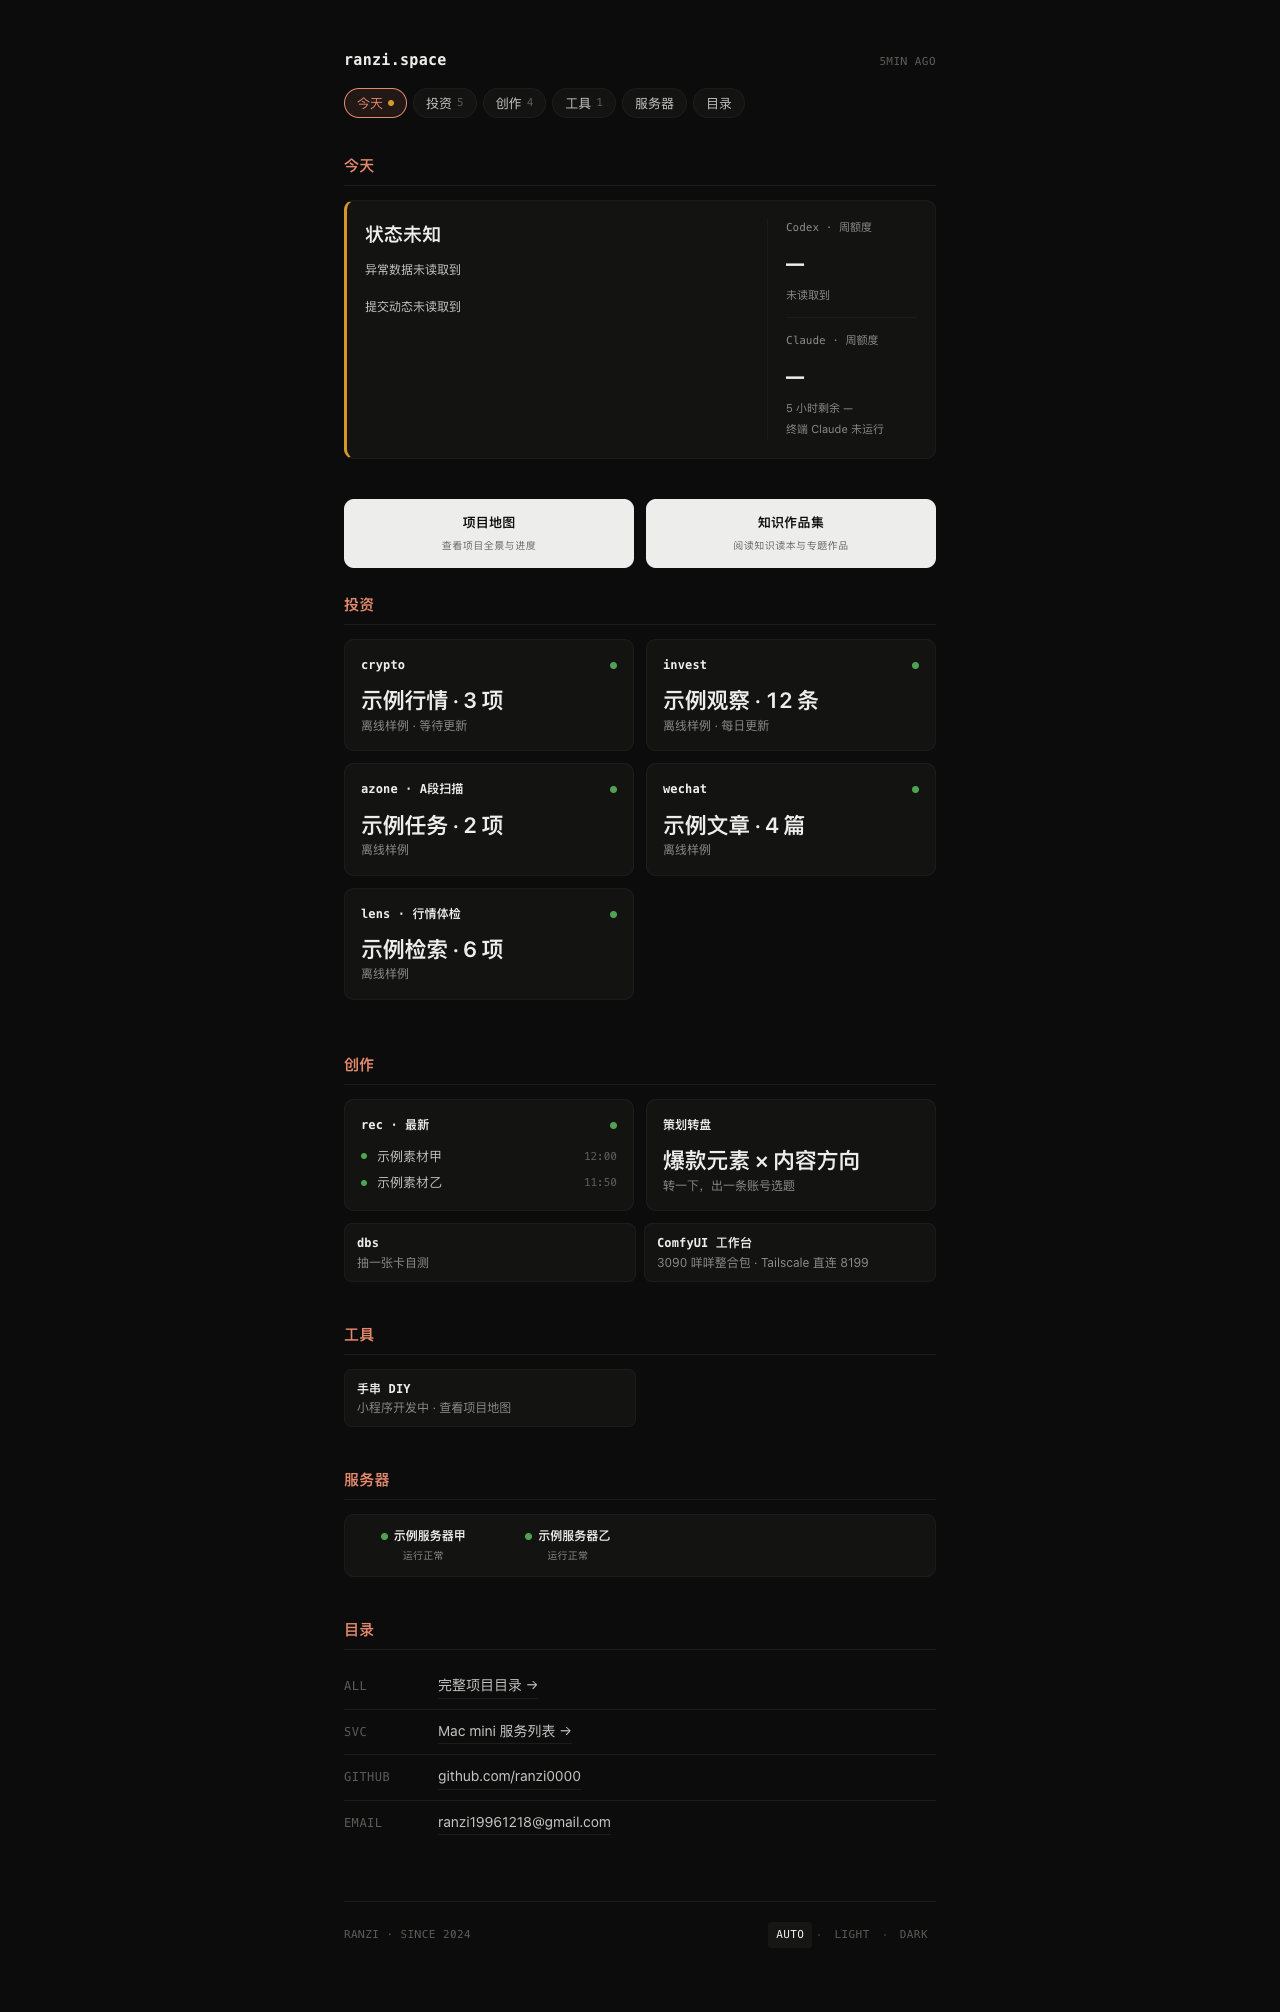
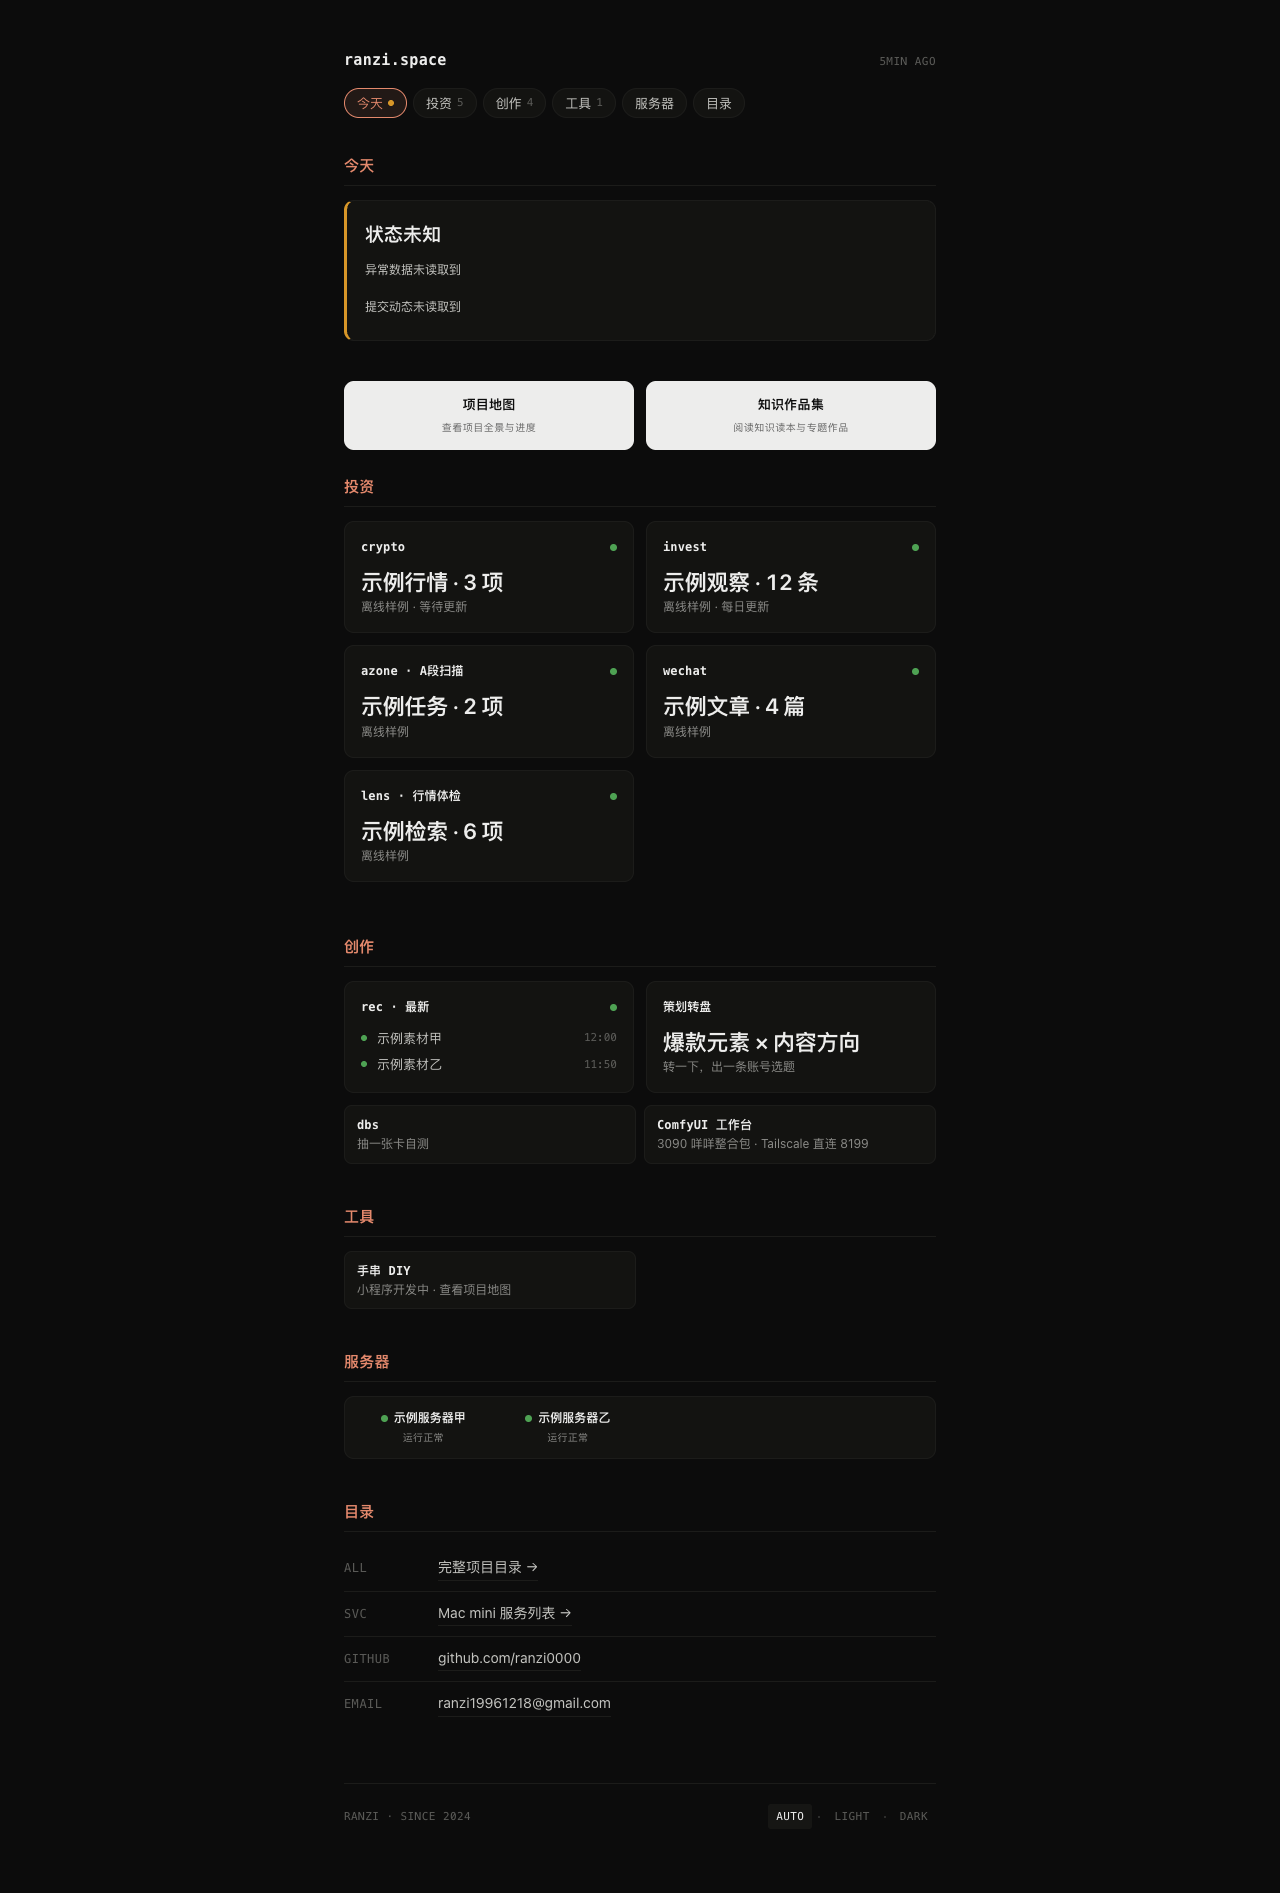
额度区精简：撤下已到期的 Codex 行；Claude 无数据时整块隐藏，今天面板改单栏

diff --git a/index.html b/index.html
@@ -115,6 +115,8 @@ body.stale .server-strip { opacity: 0.55; }
 }
 .today-panel[data-state="alerts"] { border-left-color: var(--status-bad); }
 .today-panel[data-state="unknown"] { border-left-color: var(--status-warn); }
+.today-panel.no-quota { grid-template-columns: minmax(0, 1fr); }
+.quota-block[hidden] { display: none; }
 .today-copy { min-width: 0; }
 .today-status { margin: 0; font-size: 19px; font-weight: 600; color: var(--fg); }
 .today-alerts, .today-latest { list-style: none; padding: 0; margin: 0; }
@@ -566,13 +568,8 @@ footer .meta { text-transform: uppercase; }
         <p class="today-activity" id="today-activity">提交动态读取中</p>
         <ul class="today-latest" id="today-latest"></ul>
       </div>
-      <aside class="quota-block" aria-label="额度">
-        <div class="quota-row">
-          <p class="quota-label">Codex · 周额度</p>
-          <p class="quota-value" id="quota-value">—</p>
-          <p class="quota-state" id="quota-state">读取中</p>
-          <p class="quota-reset" id="quota-reset"></p>
-        </div>
+      <!-- 只剩 Claude 一行（Codex 会员 2026-10-21 到期后撤下）；没有数据时整块隐藏，面板变单栏 -->
+      <aside class="quota-block" id="quota-block" aria-label="额度" hidden>
         <div class="quota-row">
           <p class="quota-label">Claude · 周额度</p>
           <p class="quota-value" id="quota-claude-value">—</p>

diff --git a/assets/home/render.js b/assets/home/render.js
@@ -282,13 +282,12 @@ function renderToday(data) {
     if (item.time) li.querySelector('time').dateTime = item.time;
     latest.appendChild(li);
   });
-  var quota = quotaView(data?.quota);
-  document.getElementById('quota-value').textContent = quota.remaining === null ? '—' : quota.remaining + '%';
-  document.getElementById('quota-state').textContent = quota.label;
-  document.getElementById('quota-reset').textContent = quota.reset;
   var claude = quotaView(data?.quota_claude, Date.now(), [10080], 21600);
   var short = quotaView(data?.quota_claude, Date.now(), [300], 21600);
   var available = claude.remaining !== null;
+  // 额度只有终端 Claude 运行时才会写入；没有数据时整块隐藏，不常驻一行「未运行」
+  document.getElementById('quota-block').hidden = !available;
+  panel.classList.toggle('no-quota', !available);
   var sampled = new Date(data?.quota_claude?.sampled_at * 1000);
   var sampleTime = String(sampled.getHours()).padStart(2, '0') + ':' + String(sampled.getMinutes()).padStart(2, '0');
   document.getElementById('quota-claude-value').textContent = available ? claude.remaining + '%' : '—';

diff --git a/scripts/verify_p3.py b/scripts/verify_p3.py
@@ -47,10 +47,6 @@ def main():
                             assert page.locator('.group-section:visible .eyebrow').all_text_contents() == ['投资', '创作', '工具']
                             assert page.locator('#quick-tags a:visible').all_text_contents() == ['今天', '投资5', '创作4', '工具1', '服务器', '目录']
                             assert page.locator('#today-latest li').count() == (0 if fixture == 'error' else 2)
-                            assert page.locator('#quota-value').inner_text() == ('—' if fixture == 'error' else '62%')
-                            assert page.locator('#quota-state').inner_text() == ({'unknown': '旧数据', 'error': '未读取到'}.get(fixture, '剩余'))
-                            if fixture != 'error':
-                                assert page.locator('#quota-reset').inner_text() == '10/22 周四 20:04 重置'
                             value, short, label = CLAUDE[fixture]
                             assert page.locator('#quota-claude-value').inner_text() == value
                             assert page.locator('#quota-claude-short').inner_text() == short
@@ -58,14 +54,12 @@ def main():
                             assert page.locator('#quota-claude-reset').inner_text() == (
                                 '10/22 周四 20:04 重置' if fixture in ('ok', 'alerts') else '')
                             assert page.locator('.quota-block').get_attribute('aria-label') == '额度'
-                            rows = page.locator('.quota-row')
-                            assert rows.count() == 2
-                            assert rows.nth(0).is_visible() and rows.nth(1).is_visible()
-                            codex_box, claude_box = rows.nth(0).bounding_box(), rows.nth(1).bounding_box()
-                            assert claude_box['y'] >= codex_box['y'] + codex_box['height']
-                            for selector in ('#quota-value', '#quota-state', '#quota-reset',
-                                             '#quota-claude-value', '#quota-claude-short',
-                                             '#quota-claude-state', '#quota-claude-reset'):
+                            has_quota = fixture in ('ok', 'alerts')
+                            # 没有 Claude 额度数据时整块隐藏，面板变单栏
+                            assert page.locator('#quota-block').is_visible() == has_quota
+                            assert page.locator('.quota-row').count() == 1
+                            for selector in (() if not has_quota else ('#quota-claude-value', '#quota-claude-short',
+                                             '#quota-claude-state', '#quota-claude-reset')):
                                 # Both palettes must keep the text legible against the card.
                                 contrast = page.locator(selector).evaluate("""el => {
                                     const rgb = color => color.match(/[\\d.]+/g).slice(0, 3).map(Number);
@@ -85,11 +79,15 @@ def main():
                                 assert page.locator('#today-ai').is_visible()
                             assert page.evaluate('document.documentElement.scrollWidth <= innerWidth')
                             copy = page.locator('.today-copy').bounding_box()
-                            quota = page.locator('.quota-block').bounding_box()
-                            if width == 390:
-                                assert quota['y'] >= copy['y'] + copy['height']
+                            if has_quota:
+                                quota = page.locator('.quota-block').bounding_box()
+                                if width == 390:
+                                    assert quota['y'] >= copy['y'] + copy['height']
+                                else:
+                                    assert quota['x'] > copy['x']
                             else:
-                                assert quota['x'] > copy['x']
+                                panel = page.locator('.today-panel').bounding_box()
+                                assert copy['width'] > panel['width'] - 60
                             page.screenshot(path=str(output / result['image']), full_page=True)
                         except Exception as error:
                             result['errors'].append(str(error))
